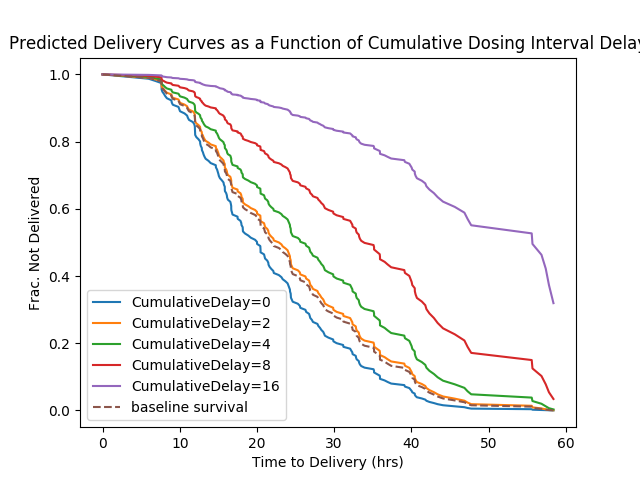
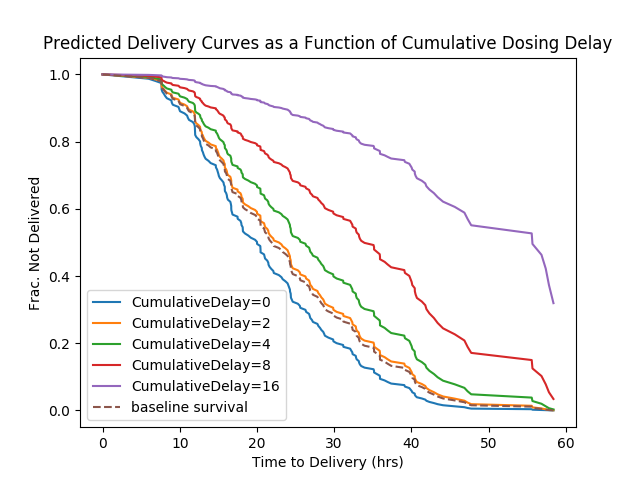
fixing coxPH title

Changed region(s): [[0.0, 0.0625, 1.0, 0.125]]

diff --git a/src/KM_curves.py b/src/KM_curves.py
@@ -54,7 +54,7 @@ ax.set_xlim(0, 60)
 ax.set_ylim(0, 1)
 plt.xlabel('Time to Delivery (hrs)')
 plt.ylabel('Frac. Not Delivered')
-plt.title('Predicted Delivery Curves as a Function of Cumulative Dosing Interval Delay')
+plt.title('Predicted Delivery Curves as a Function of Cumulative Dosing Delay')
 plt.savefig('output/predicted_KM.png')
 
 
